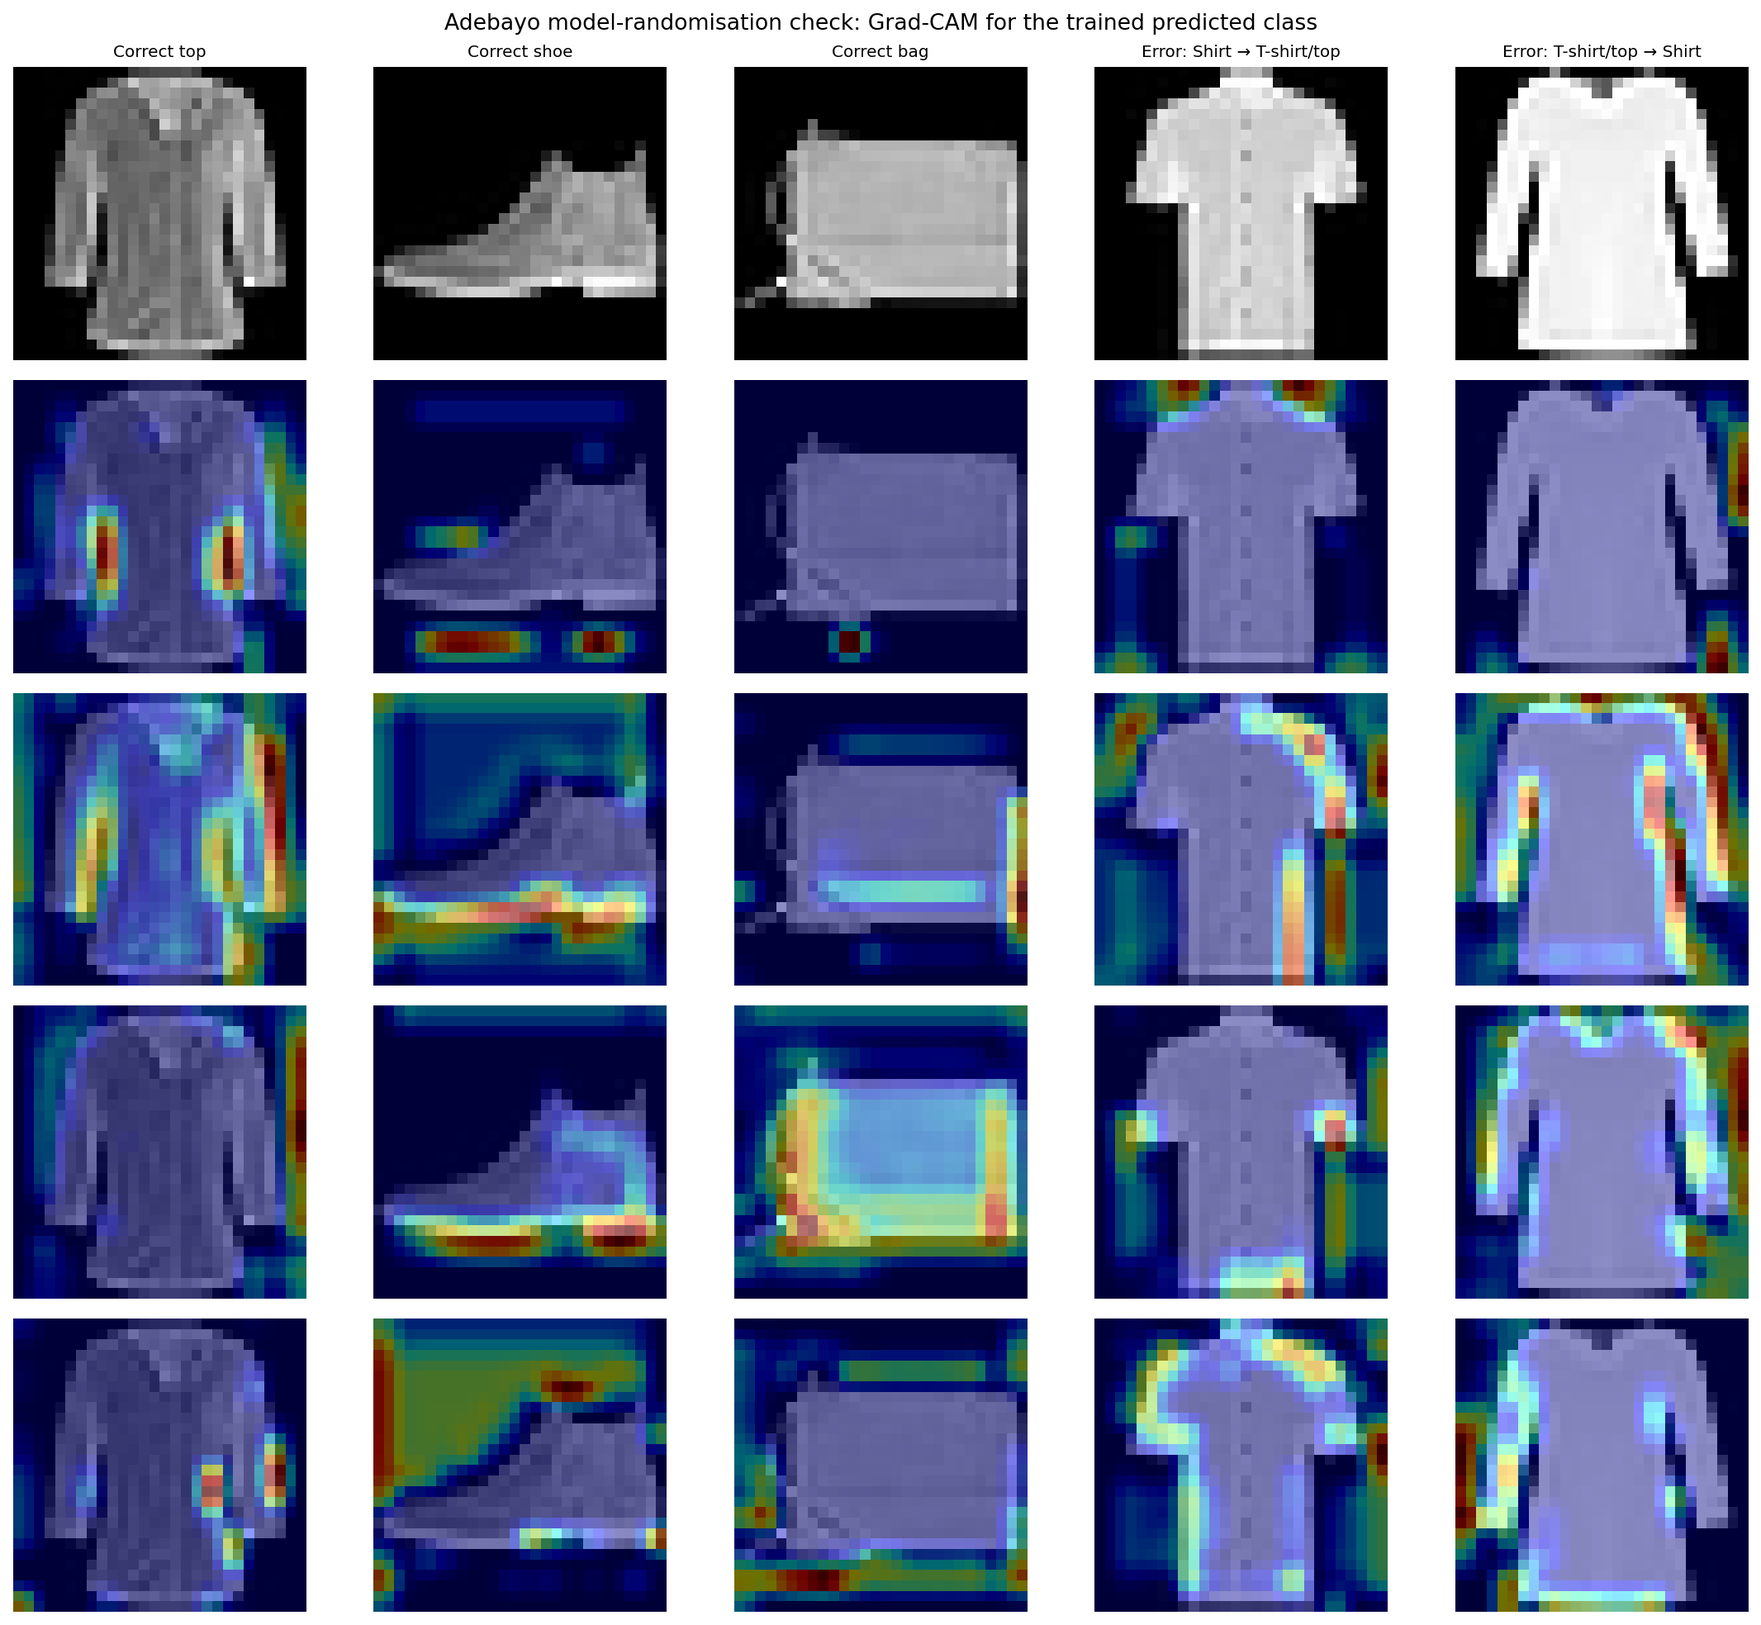
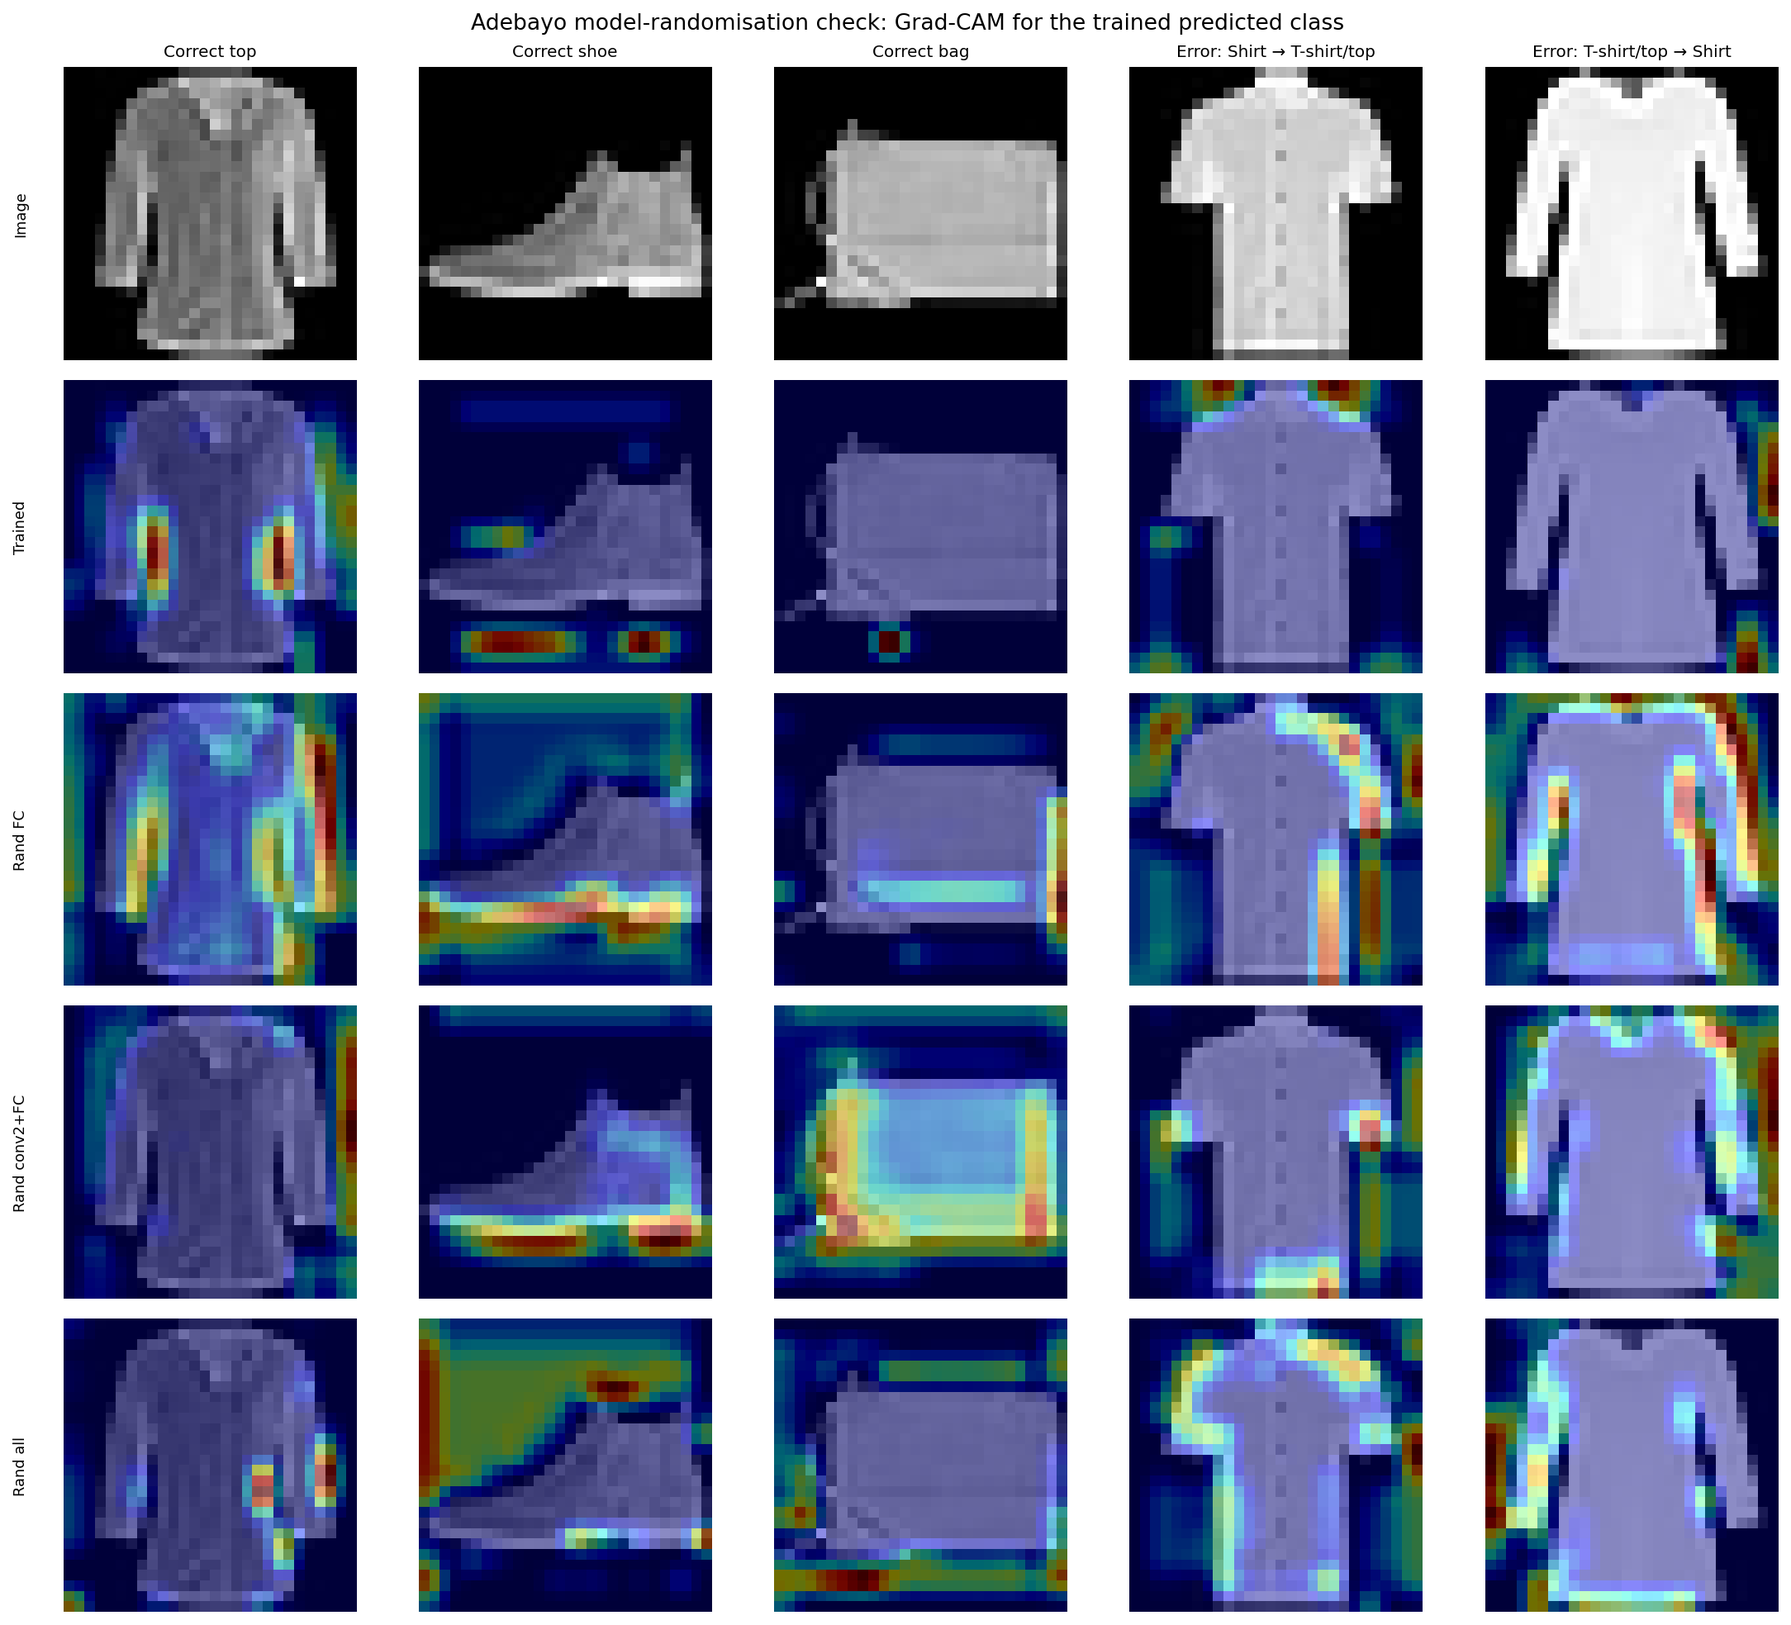
Update crop-run results, figures, and Grad-CAM evaluation.

diff --git a/scripts/run_experiments.py b/scripts/run_experiments.py
@@ -1,4 +1,9 @@
-"""CNN learning-rate sweep, then MLP / CNN / CNN+aug reported runs."""
+"""CNN learning-rate sweep, then four reported runs.
+
+The four systems are trained separately so architecture (MLP vs CNN) is not
+mixed with augmentation, and so crop is a fourth isolated CNN run rather
+than a replacement of flip+shift.
+"""
 
 from __future__ import annotations
 
@@ -233,13 +238,22 @@ def run_reported_experiments(args, device, lr: float) -> None:
         subset = [row for row in run_rows if row["run"] == name]
         acc = [float(row["test_accuracy"]) for row in subset]
         f1 = [float(row["test_macro_f1"]) for row in subset]
-        spec = next((item for item in RUNS if item["name"] == name), subset[0])
+        spec = next((item for item in RUNS if item["name"] == name), None)
+        augment = subset[0]["augment"]
+        if spec is not None:
+            augment = spec["augment"]
+        if str(augment).lower() == "false":
+            aug_kind = "none"
+        elif spec is not None:
+            aug_kind = spec["aug_kind"]
+        else:
+            aug_kind = subset[0].get("aug_kind", "none")
         summary_rows.append(
             {
                 "run": name,
-                "model": spec["model"] if isinstance(spec, dict) and "model" in spec else subset[0]["model"],
-                "augment": spec["augment"] if isinstance(spec, dict) and "augment" in spec else subset[0]["augment"],
-                "aug_kind": spec.get("aug_kind", subset[0].get("aug_kind", "none")) if isinstance(spec, dict) else subset[0].get("aug_kind", "none"),
+                "model": spec["model"] if spec is not None else subset[0]["model"],
+                "augment": augment,
+                "aug_kind": aug_kind,
                 "lr": lr,
                 "n_seeds": len(subset),
                 "accuracy_mean": statistics.mean(acc),

diff --git a/src/evaluate.py b/src/evaluate.py
@@ -121,3 +121,36 @@ def pair_confusion(cm: np.ndarray, true_name: str, pred_name: str) -> int:
     true_idx = CLASS_NAMES.index(true_name)
     pred_idx = CLASS_NAMES.index(pred_name)
     return int(cm[true_idx, pred_idx])
+
+
+def plot_per_class_f1(summary_rows: list[dict], out_path: str | Path) -> Path:
+    """Grouped bar chart of mean test F1 for the four reported runs."""
+    run_order = ["mlp", "cnn", "cnn_aug", "cnn_crop"]
+    labels = {
+        "mlp": "MLP",
+        "cnn": "CNN",
+        "cnn_aug": "CNN+flip/shift",
+        "cnn_crop": "CNN+crop",
+    }
+    colors = ["#A0CBE8", "#4C78A8", "#F58518", "#54A24B"]
+    lookup = {(row["run"], row["class_name"]): float(row["f1_mean"]) for row in summary_rows}
+
+    x = np.arange(len(CLASS_NAMES))
+    width = 0.2
+    fig, ax = plt.subplots(figsize=(11, 4.2))
+    for i, run in enumerate(run_order):
+        means = [lookup[(run, name)] for name in CLASS_NAMES]
+        ax.bar(x + (i - 1.5) * width, means, width, label=labels[run], color=colors[i])
+    ax.set_xticks(x)
+    ax.set_xticklabels(CLASS_NAMES, rotation=20, ha="right")
+    ax.set_ylabel("Mean test $F_1$ (3 seeds)")
+    ax.set_ylim(0.65, 1.0)
+    ax.axhline(0.80, color="#888888", linestyle="--", linewidth=0.8)
+    ax.set_title("Per-class test $F_1$ on Fashion-MNIST")
+    ax.legend(frameon=False, ncol=4, loc="upper right")
+    fig.tight_layout()
+    out_path = Path(out_path)
+    out_path.parent.mkdir(parents=True, exist_ok=True)
+    fig.savefig(out_path, dpi=150, bbox_inches="tight")
+    plt.close(fig)
+    return out_path

diff --git a/scripts/demo.py b/scripts/demo.py
@@ -61,7 +61,7 @@ def _open_figures(paths: list[Path]) -> None:
 def main() -> None:
     device = get_device()
     print("=" * 64)
-    print("COMP813 demo: Fashion-MNIST MLP vs CNN + Grad-CAM")
+    print("COMP813 demo: Fashion-MNIST MLP vs CNN, crop ablation, Grad-CAM")
     print("=" * 64)
     print(f"Device: {device}")
     print("No camera. Official 28x28 test images only.\n")
@@ -136,12 +136,17 @@ def main() -> None:
     print(f"   saved {gradcam_path.name}")
 
     _print_metrics_table()
+    print("\nFour isolated runs: MLP, CNN, CNN+flip/shift, CNN+crop (pad 4).")
+    print("Adebayo check randomises CNN weights; maps are in gradcam_sanity.png.")
     print("\nOpening result figures...")
     _open_figures(
         [
             ROOT / "figures" / "sample_train.png",
+            ROOT / "figures" / "sample_train_crop.png",
             cm_path,
             gradcam_path,
+            ROOT / "figures" / "gradcam_sanity.png",
+            ROOT / "figures" / "per_class_f1.png",
             ROOT / "figures" / "lr_sweep.png",
         ]
     )

diff --git a/scripts/gradcam_sanity.py b/scripts/gradcam_sanity.py
@@ -125,8 +125,6 @@ def main() -> None:
             )
             axes[row_idx, col].imshow(overlay_heatmap(gray, cam))
             axes[row_idx, col].axis("off")
-            if col == 0:
-                axes[row_idx, col].set_ylabel(label, fontsize=8)
             if key != "trained":
                 corr_rows.append(
                     {
@@ -138,7 +136,18 @@ def main() -> None:
                     }
                 )
 
-    axes[0, 0].set_ylabel("Image")
+    row_labels = ["Image"] + [label for _, label in levels]
+    for row_idx, label in enumerate(row_labels):
+        axes[row_idx, 0].text(
+            -0.12,
+            0.5,
+            label,
+            transform=axes[row_idx, 0].transAxes,
+            va="center",
+            ha="right",
+            fontsize=8,
+            rotation=90,
+        )
     fig.suptitle(
         "Adebayo model-randomisation check: Grad-CAM for the trained predicted class"
     )

diff --git a/scripts/evaluate_test.py b/scripts/evaluate_test.py
@@ -15,7 +15,12 @@ import numpy as np
 import torch
 
 from src.data import CLASS_NAMES, get_dataloaders
-from src.evaluate import evaluate_model, pair_confusion, save_confusion_matrix
+from src.evaluate import (
+    evaluate_model,
+    pair_confusion,
+    plot_per_class_f1,
+    save_confusion_matrix,
+)
 from src.models import CNN
 from src.train import get_device
 
@@ -147,6 +152,9 @@ def main() -> None:
             "recall_mean",
         ],
     )
+
+    f1_path = plot_per_class_f1(summary, ROOT / "figures" / "per_class_f1.png")
+    print(f"Saved {f1_path}")
 
     print("\nMean test F1 over 3 seeds (focus classes):")
     print(f"{'class':<12}  {'mlp':>8}  {'cnn':>8}  {'cnn_aug':>8}  {'cnn_crop':>8}")

diff --git a/src/gradcam.py b/src/gradcam.py
@@ -88,7 +88,7 @@ def overlay_heatmap(gray: np.ndarray, cam: np.ndarray, alpha: float = 0.45) -> n
     """Blend a grayscale 28x28 image with a jet heatmap."""
     heat = plt.get_cmap("jet")(cam)[..., :3]
     rgb = np.stack([gray, gray, gray], axis=-1)
-    return (1.0 - alpha) * rgb + alpha * heat
+    return np.clip((1.0 - alpha) * rgb + alpha * heat, 0.0, 1.0)
 
 
 def to_display_image(image: torch.Tensor, mean: float, std: float) -> np.ndarray:

diff --git a/README.md b/README.md
@@ -1,6 +1,6 @@
 # Fashion-MNIST clothing classification
 
-Individual COMP813 project: compare an MLP and a small CNN on Fashion-MNIST, ablate simple geometric augmentation, and inspect CNN predictions with Grad-CAM.
+Individual COMP813 project: compare an MLP and a small CNN on Fashion-MNIST, ablate two geometric augmentations (flip+shift, and a separate crop run), inspect CNN predictions with Grad-CAM, and run an Adebayo-style parameter-randomisation check.
 
 No camera is required. Evaluation uses the official 10,000-image Fashion-MNIST test set.
 
@@ -11,14 +11,16 @@ No camera is required. Evaluation uses the official 10,000-image Fashion-MNIST t
 | A | MLP | off | 88.88 ± 0.15 | 88.83 ± 0.17 |
 | B | CNN | off | **92.08 ± 0.23** | **92.05 ± 0.23** |
 | C | CNN | horizontal flip + ≤2 px shift | 91.38 ± 0.28 | 91.36 ± 0.32 |
+| D | CNN | random crop, pad=4 | 90.13 ± 0.36 | 90.05 ± 0.43 |
 
 Selected CNN learning rate: **3e-4** (validation accuracy 93.28%). Best CNN checkpoint: seed 2, **92.24%** test accuracy.
 
 Ablation answers from these runs (not from papers):
 
 1. The CNN beats the MLP by about 3.2 points under the same training recipe.
-2. Flip + shift does **not** raise overall accuracy (92.08% → 91.38%).
-3. Shirt remains the hardest class (CNN F1 0.769 vs CNN+aug 0.746). Shirt → T-shirt/top: 95; T-shirt/top → Shirt: 85.
+2. Flip + shift does **not** raise overall accuracy (92.08% → 91.38%). Isolated crop is worse (90.13%).
+3. Shirt remains the hardest class (CNN F1 0.769 vs flip/shift 0.746 vs crop 0.697).
+4. Grad-CAM maps collapse under cascading weight randomisation (mean Spearman 0.165 / 0.074 / 0.085 vs the trained map).
 
 Write-up: `results/ablation.md`. Report figures live in `figures/` and are copied into `../cvpr2017AuthorKit/latex/figures/`.
 
@@ -40,7 +42,7 @@ code/
   requirements.txt
   README.md
   src/
-    data.py          # load, stratified val split, augment
+    data.py          # load, stratified val split, flip_shift / crop
     models.py        # MLP and CNN
     train.py         # Adam, early stopping
     evaluate.py      # accuracy, F1, confusion matrix
@@ -51,14 +53,15 @@ code/
     run_experiments.py
     evaluate_test.py
     gradcam_cnn.py
-    demo.py          # 1-epoch video demo
-  figures/           # PNG plots for the report
-  results/           # csv / json tables (not the large .pt files)
+    gradcam_sanity.py   # Adebayo parameter randomisation
+    demo.py             # 1-epoch video demo
+  figures/
+  results/
 ```
 
 ## Reproduce
 
-Work from `code/` with the virtual environment activated. Fashion-MNIST downloads into `code/data/` on first run.
+Work from `code/` with the virtual environment activated.
 
 ### 1. Preview data
 
@@ -66,7 +69,7 @@ Work from `code/` with the virtual environment activated. Fashion-MNIST download
 python scripts/preview_data.py
 ```
 
-Prints split sizes and training-set mean/std, and writes `figures/sample_train.png` and `figures/sample_train_aug.png`.
+Writes `figures/sample_train.png`, `figures/sample_train_aug.png`, and `figures/sample_train_crop.png`.
 
 ### 2. Preview models
 
@@ -74,47 +77,36 @@ Prints split sizes and training-set mean/std, and writes `figures/sample_train.p
 python scripts/preview_models.py
 ```
 
-Prints parameter counts (MLP 235,146; CNN 421,642) and checks that both models map `(N, 1, 28, 28)` to 10 logits.
+### 3. Train
 
-### 3. Train (learning-rate sweep + 3 seeds)
+Full four-run experiment (overwrites all seeds; slow):
 
 ```bash
 PYTHONUNBUFFERED=1 python -u scripts/run_experiments.py
 ```
 
-This:
-
-1. Sweeps CNN learning rates `1e-3`, `3e-4`, `1e-4` on the **validation** set (no augmentation)
-2. Reuses the best LR for MLP, CNN, and CNN+aug, each with 3 seeds
-3. Writes `results/metrics.csv`, `results/runs.csv`, `results/per_class.csv`, `results/lr_sweep.csv`, and `figures/curves_*.png`
-
-Skip the sweep if you already have a chosen LR:
+Train **only** the crop ablation, keeping existing MLP / CNN / CNN+aug rows:
 
 ```bash
-python scripts/run_experiments.py --skip-sweep --lr 0.0003
+PYTHONUNBUFFERED=1 python -u scripts/run_experiments.py --skip-sweep --lr 0.0003 --runs cnn_crop
 ```
 
-Do **not** re-run this before the video demo: it overwrites the 3-seed results and takes a long time.
+Do **not** re-run the full command before the video demo: it overwrites the 3-seed results.
 
-### 4. Evaluate the best CNN
+### 4. Evaluate the best unaugmented CNN
 
 ```bash
 python scripts/evaluate_test.py
 ```
 
-Reloads the best CNN checkpoint, scores the 10,000-image test set, and writes:
-
-- `figures/confusion_cnn.png`
-- `results/confusion_cnn.csv`
-- `results/per_class_summary.csv`
-
 ### 5. Grad-CAM
 
 ```bash
 python scripts/gradcam_cnn.py
+python scripts/gradcam_sanity.py
 ```
 
-Writes `figures/gradcam_grid.png` for the best CNN: correct top/shoe/bag examples and Shirt ↔ T-shirt/top errors.
+The second script does **not** retrain. It randomises the saved CNN from the top down and writes `figures/gradcam_sanity.png` plus `results/gradcam_sanity.csv`.
 
 ### 6. Video demo (2–5 min MP4)
 
@@ -122,25 +114,24 @@ Writes `figures/gradcam_grid.png` for the best CNN: correct top/shoe/bag example
 python -u scripts/demo.py
 ```
 
-Runs a **1-epoch** training pass (allowed instead of full training), then reloads the saved CNN, reprints test metrics, and opens the confusion-matrix and Grad-CAM figures. Timed script: `../VIDEO_DEMO.md`.
+`demo.py` does not overwrite `results/metrics.csv`. Timed script: `../VIDEO_DEMO.md`.
 
-`demo.py` does not overwrite `results/metrics.csv`.
-
-## Training recipe (all three runs)
+## Training recipe
 
 - Official 60,000/10,000 split; 10% stratified validation from train
 - Pixels scaled to `[0, 1]`, then normalised with **train-split** mean/std
-- Cross-entropy, Adam, batch size 128, max 30 epochs, early stopping (patience 5) on validation loss
-- Augmentation on CNN training only: horizontal flip `p=0.5` and a shift of at most 2 pixels; never on val/test
-- Grad-CAM on the last convolutional layer (`conv2`); not applied to the MLP
+- Cross-entropy, Adam, batch size 128, max 30 epochs, early stopping (patience 5)
+- Two CNN-only augmentations, never on val/test:
+  - `flip_shift`: horizontal flip `p=0.5` and a shift of at most 2 pixels
+  - `crop`: `RandomCrop(28, padding=4)`
+- Grad-CAM on `conv2`; Adebayo check randomises classifier → conv2 → all weights
+- Not applied to the MLP
 
 ## What not to zip
 
-Do **not** include these in the submission archive:
-
 - `.venv/`
-- `data/` (Fashion-MNIST download cache)
-- `results/checkpoints/` and `*.pt` files
+- `data/`
+- `results/checkpoints/` and `*.pt`
 - `__pycache__/`
 
 Keep `results/*.csv`, `results/*.json`, `results/ablation.md`, and `figures/*.png`.

diff --git a/results/ablation.md b/results/ablation.md
@@ -1,6 +1,6 @@
 # Ablation answers from this project's code (Step 6)
 
-All numbers are from `metrics.csv`, `per_class_summary.csv`, and `confusion_cnn.csv`. They are **not** copied from papers.
+All numbers are from `metrics.csv`, `per_class_summary.csv`, `confusion_cnn.csv`, and `gradcam_sanity.csv`. They are **not** copied from papers.
 
 ## 1. Does the CNN beat the MLP?
 
@@ -11,37 +11,34 @@ All numbers are from `metrics.csv`, `per_class_summary.csv`, and `confusion_cnn.
 | MLP (no aug) | 88.88 ± 0.15 | 88.83 ± 0.17 |
 | CNN (no aug) | **92.08 ± 0.23** | **92.05 ± 0.23** |
 
-The CNN is about **3.2 percentage points** more accurate. Training used the same split, Adam, batch size 128, early stopping, and the same learning rate (3e-4). The gain is therefore from convolution, not from a different optimiser.
+The CNN is about **3.2 percentage points** more accurate. Training used the same split, Adam, batch size 128, early stopping, and the same learning rate (3e-4).
 
 ## 2. Does augmentation raise overall accuracy?
 
-**No, not in this setup.** Horizontal flip (p=0.5) plus a shift of at most 2 pixels **lowered** mean test accuracy:
+**No.** Two isolated CNN policies both lowered accuracy:
 
 | Model | Accuracy (%) | Macro-F1 (%) |
 |-------|--------------|--------------|
 | CNN (no aug) | **92.08 ± 0.23** | **92.05 ± 0.23** |
 | CNN + flip/shift | 91.38 ± 0.28 | 91.36 ± 0.32 |
+| CNN + crop (pad 4) | 90.13 ± 0.36 | 90.05 ± 0.43 |
 
-That is a drop of about **0.7 points**. The 1-epoch demo run is not used here; these figures are from the 30-epoch, 3-seed experiments.
+Crop is a **fourth run**, not a replacement of flip/shift.
 
-## 3. Does augmentation reduce Shirt ↔ T-shirt errors, or only help easy classes?
+## 3. Does either policy reduce Shirt ↔ T-shirt errors?
 
-**It does not reduce the hard-class errors.** Mean test F1 over 3 seeds:
+**No.** Mean Shirt F1: MLP 0.699, CNN **0.769**, flip/shift 0.746, crop 0.697. Crop returns Shirt to about the MLP level.
 
-| Class | MLP | CNN | CNN+aug |
-|-------|-----|-----|---------|
-| T-shirt/top | 0.846 | **0.872** | 0.870 |
-| Pullover | 0.805 | **0.878** | 0.871 |
-| Coat | 0.816 | **0.876** | 0.861 |
-| Shirt | 0.699 | **0.769** | 0.746 |
-| Trouser (easy) | 0.979 | 0.988 | 0.990 |
-| Bag (easy) | 0.973 | 0.984 | 0.985 |
+Best CNN (no aug, seed 2): Shirt → T-shirt **95**, T-shirt → Shirt **85**.
 
-Shirt remains the weakest class. Augmentation slightly **hurts** Shirt (0.769 → 0.746) and Coat, while easy classes stay high either way.
+## 4. Do Grad-CAM maps depend on trained weights (Adebayo-style)?
 
-On the best CNN (no aug, seed 2), the confusion matrix still shows:
+**Yes, they collapse when weights are randomised** (same five images, trained predicted class):
 
-- Shirt → T-shirt/top: **95**
-- T-shirt/top → Shirt: **85**
+| Randomisation | Mean Spearman vs trained map |
+|---------------|------------------------------|
+| Classifier only | 0.165 |
+| conv2 + classifier | 0.074 |
+| All weights | 0.085 |
 
-So remaining error is overlapping upper-body labels, not a lack of flip/shift.
+No extra training. Label-randomisation (train on shuffled labels) was not run.
